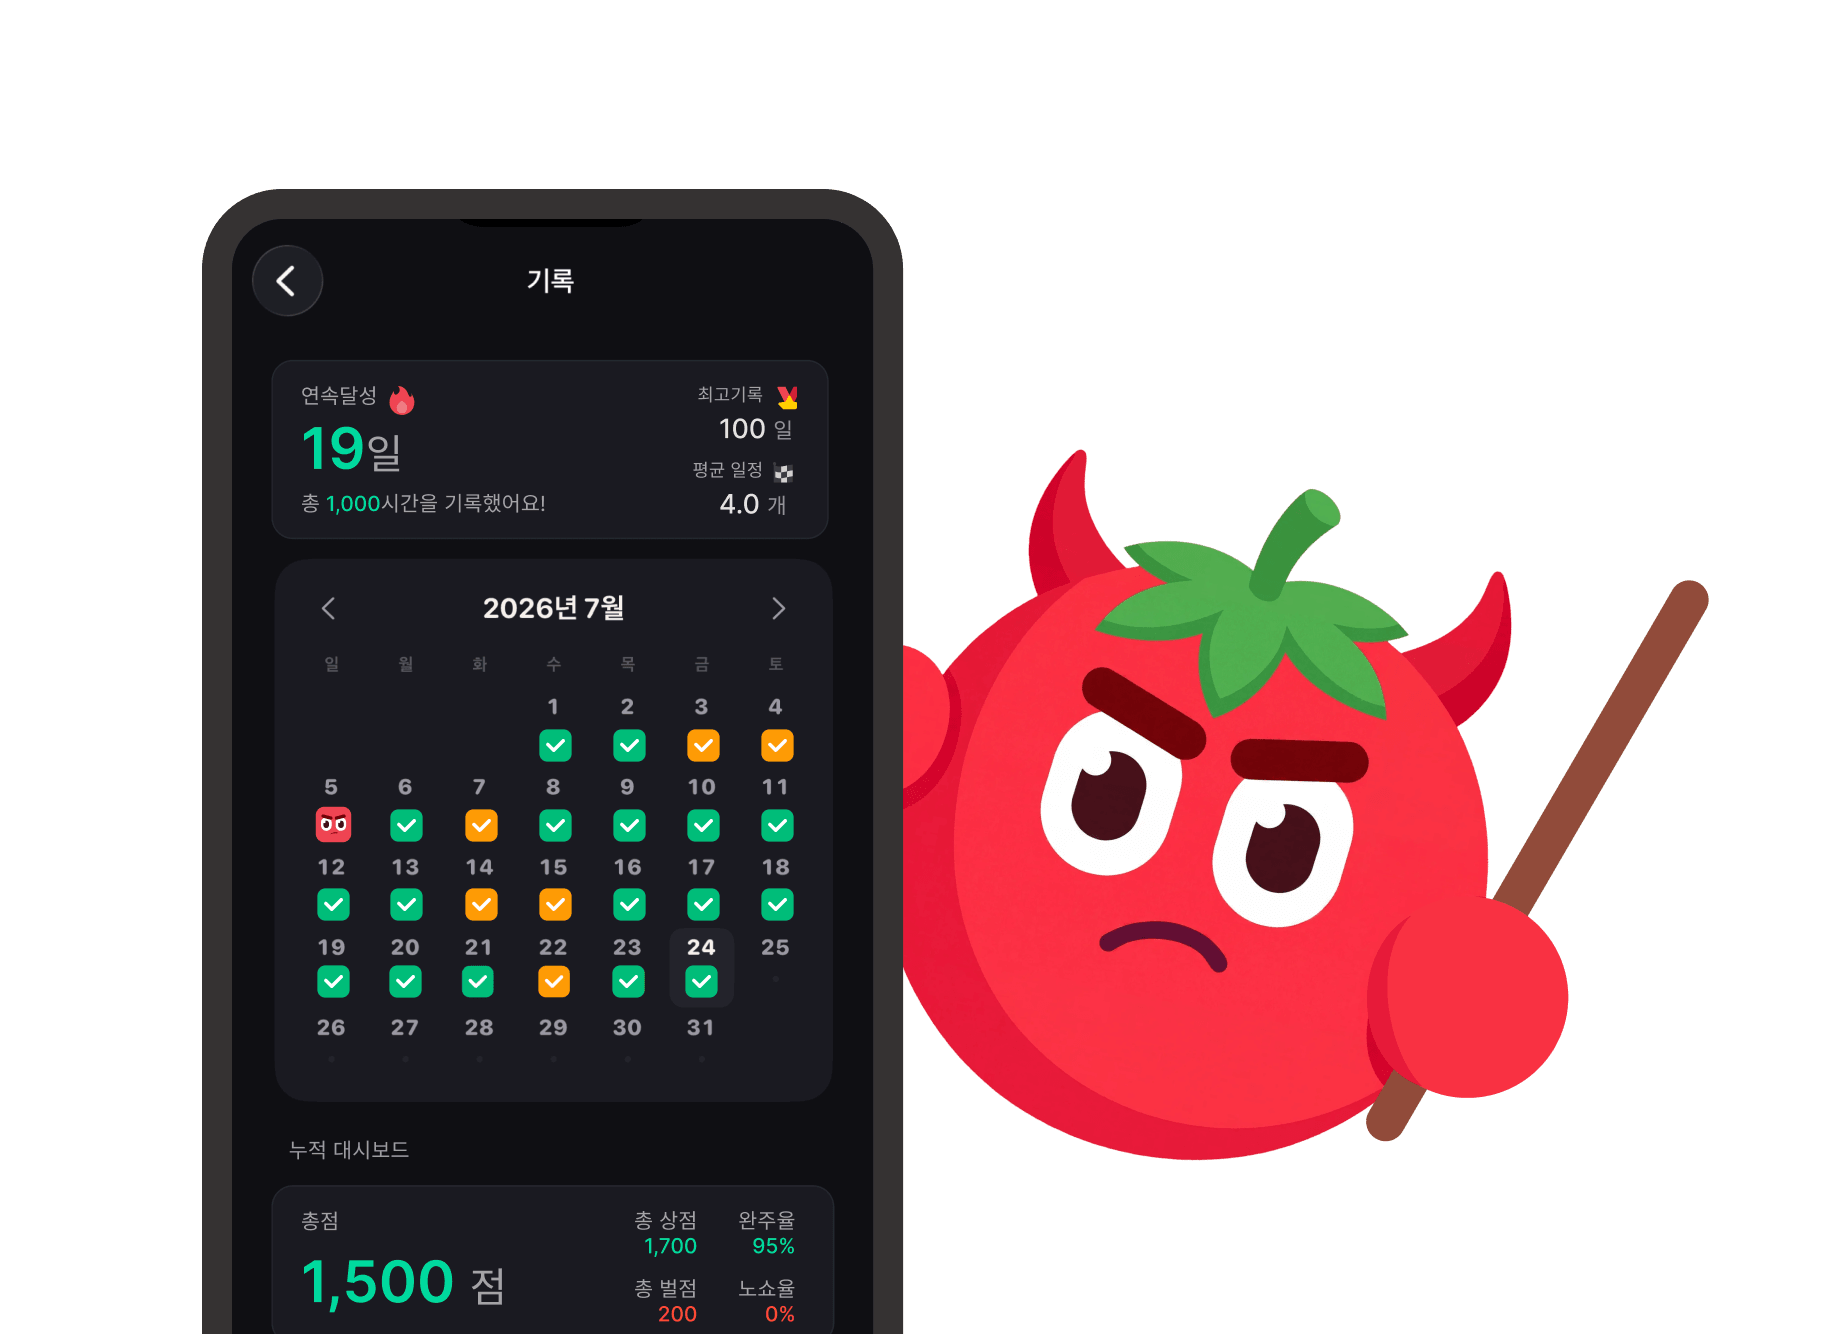
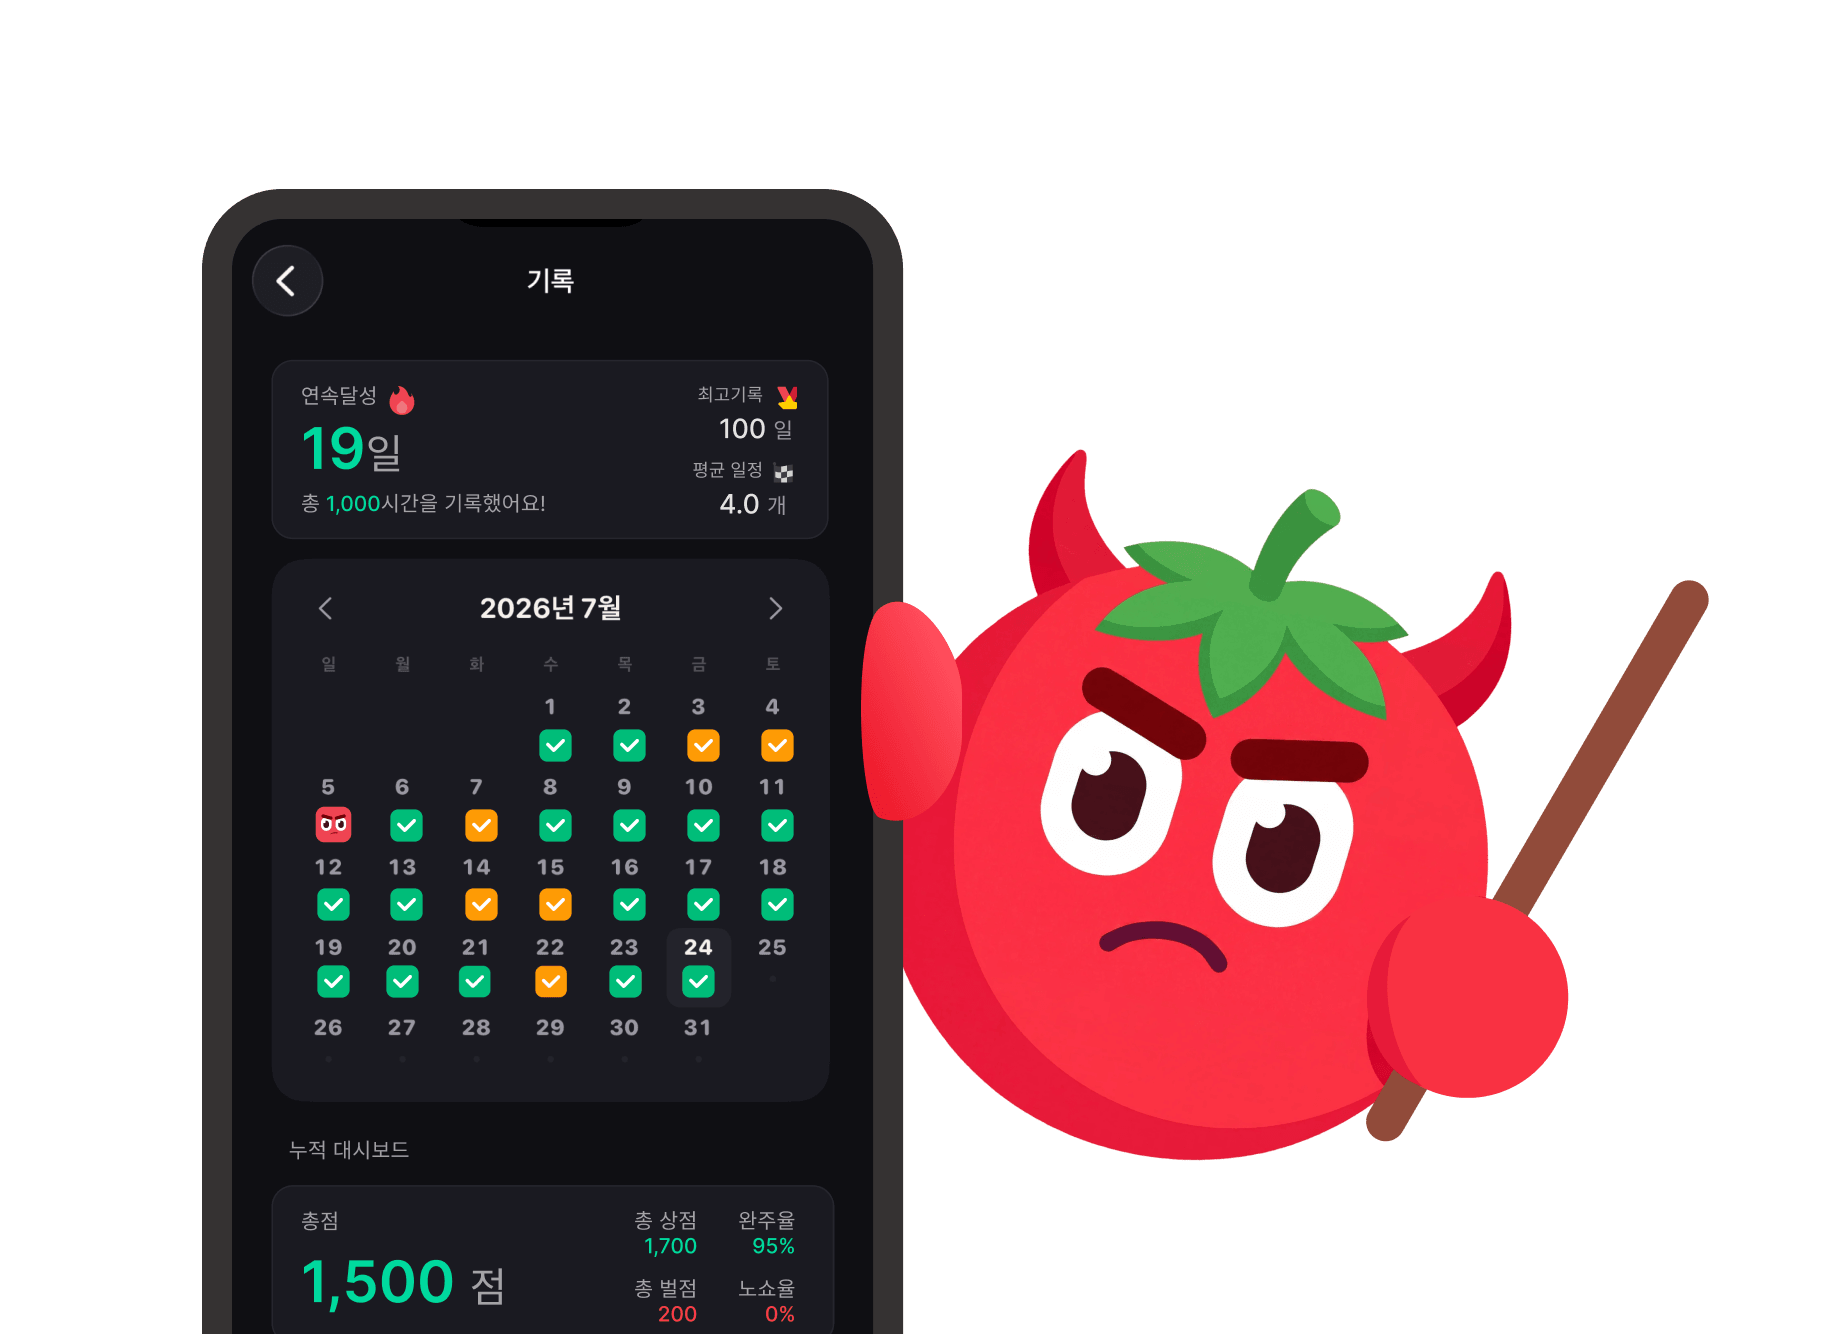
feat: CTA 목업을 cta_mockup2 버전으로 교체, 하단 여백 완전 제거
- cta_mockup2.png를 같은 방식(팔레트 PNG)으로 최적화해 반영 (396KB → 205KB)
- 최종 CTA 섹션 하단 패딩 제거 — 이미지 하단이 섹션 하단과 0px로 밀착
- PlaceholderImage img에 block 적용해 인라인 기본 여백(baseline gap) 제거
- 레포 루트의 원본 업로드 파일 정리

Claude-Session: https://claude.ai/code/session_01Kv3bknAudcvUvf7Hb78b6v

diff --git a/components/home/Section10CTA.tsx b/components/home/Section10CTA.tsx
@@ -7,7 +7,7 @@ export default function Section10CTA({ locale }: { locale: string }) {
   const t = getMessages(locale);
 
   return (
-    <section className="section-pad relative overflow-hidden bg-[linear-gradient(180deg,#3A0D08_0%,#B32316_38%,#F0402C_72%,#FF5A45_100%)] text-white">
+    <section className="relative overflow-hidden bg-[linear-gradient(180deg,#3A0D08_0%,#B32316_38%,#F0402C_72%,#FF5A45_100%)] pt-20 text-white md:pt-[120px]">
       <div className="container-content relative text-center">
         <Reveal>
           <h2 className="text-[28px] font-extrabold tracking-[-0.01em] md:text-[40px]">
@@ -21,20 +21,19 @@ export default function Section10CTA({ locale }: { locale: string }) {
         <Reveal delay={150} className="mt-8">
           <StoreButtons locale={locale} tone="brand" />
         </Reveal>
-
-        {/* 목업 이미지 자리 — 어떤 비율이든 원본 그대로 표시된다.
-            이미지 자체가 투명 여백을 품고 있어 컴포넌트 간격은 좁게 잡는다 */}
-        <Reveal delay={300} className="mt-2 md:mt-4">
-          <PlaceholderImage
-            label="cta_mockup.png"
-            width={1000}
-            height={729}
-            fitOriginal
-            alt="앵그리모티 앱 화면 목업"
-            className="drop-shadow-[0_24px_60px_rgba(0,0,0,0.35)]"
-          />
-        </Reveal>
       </div>
+
+      {/* 목업 이미지 — 이미지 자체 하단에 여백이 없으므로 섹션 바닥에 그대로 붙인다 (하단 패딩 없음) */}
+      <Reveal delay={300} className="mt-2 md:mt-4">
+        <PlaceholderImage
+          label="cta_mockup.png"
+          width={1000}
+          height={729}
+          fitOriginal
+          alt="앵그리모티 앱 화면 목업"
+          className="mx-auto drop-shadow-[0_24px_60px_rgba(0,0,0,0.35)]"
+        />
+      </Reveal>
     </section>
   );
 }

diff --git a/components/ui/PlaceholderImage.tsx b/components/ui/PlaceholderImage.tsx
@@ -79,7 +79,7 @@ export default function PlaceholderImage({
       src={src}
       alt={alt ?? label}
       onLoad={() => setLoaded(true)}
-      className={`${roundedClass} w-full ${freeRatio ? "h-auto" : "h-full object-cover"} ${
+      className={`${roundedClass} block w-full ${freeRatio ? "h-auto" : "h-full object-cover"} ${
         loaded ? "opacity-100" : "opacity-0"
       }`}
     />

diff --git a/ASSETS.md b/ASSETS.md
@@ -23,7 +23,7 @@
 | `moti_happy.png` | `home/MotiSlider.tsx` | 기뻐하는 표정의 모티 (오른쪽 상태) |
 | `section_09_group.png` | `home/Section09Features.tsx` | 그룹 챌린지 랭킹 화면 |
 | `section_09_record.png` | `home/Section09Features.tsx` | 타임랩스 기록·연속 달성 화면 |
-| `cta_mockup.png` ✅ 적용됨 | `home/Section10CTA.tsx` | 최종 CTA 그라디언트 위 목업 — 기록 화면 + 화난 모티 (1830×1334, 팔레트 PNG 115KB로 최적화. PNG·SVG 두 버전 중 PNG가 3배 가벼워 채택 — SVG는 래스터 3장이 임베드된 사실상 비트맵이었음) |
+| `cta_mockup.png` ✅ 적용됨 | `home/Section10CTA.tsx` | 최종 CTA 그라디언트 위 목업 — 기록 화면 + 화난 모티 v2 (1830×1334, 팔레트 PNG 205KB로 최적화). 이미지 하단이 섹션 하단과 여백 없이 붙도록 섹션 하단 패딩을 제거했으니, 교체 시 하단에 투명 여백이 없는 이미지를 넣을 것 |
 
 > 앱 화면 자리는 **기종을 특정하지 않는 심플한 블랙 베젤**로 감쌉니다 (노치·홈버튼 없음 — 배경과 분리감을 주기 위한 최소한의 프레임). 세로 이미지를 넣으면 베젤 안에서 원본 비율 그대로 표시되고 잘리지 않습니다. iOS·Android 어느 쪽 스크린샷을 쓰든 상관없어요. 가로 폭만 컴포넌트가 맞추고 높이는 이미지가 정합니다.
 
